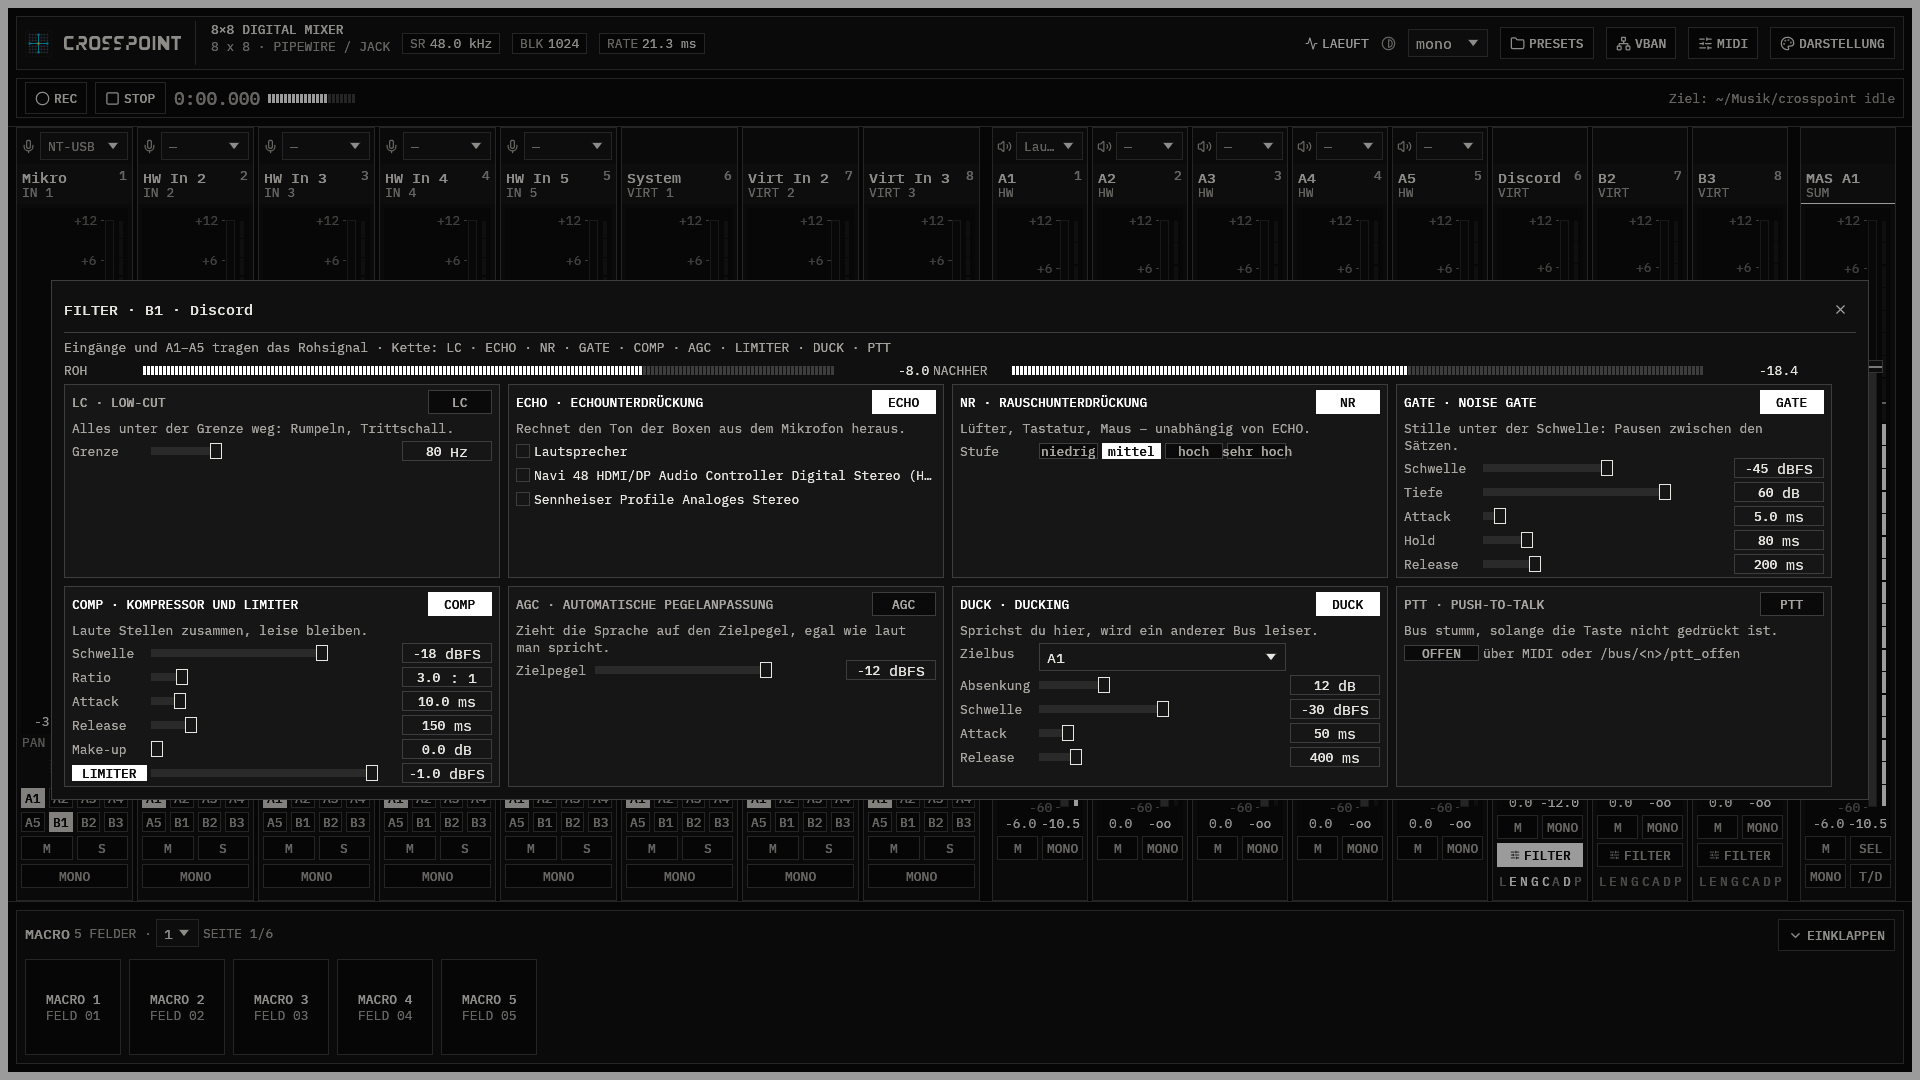
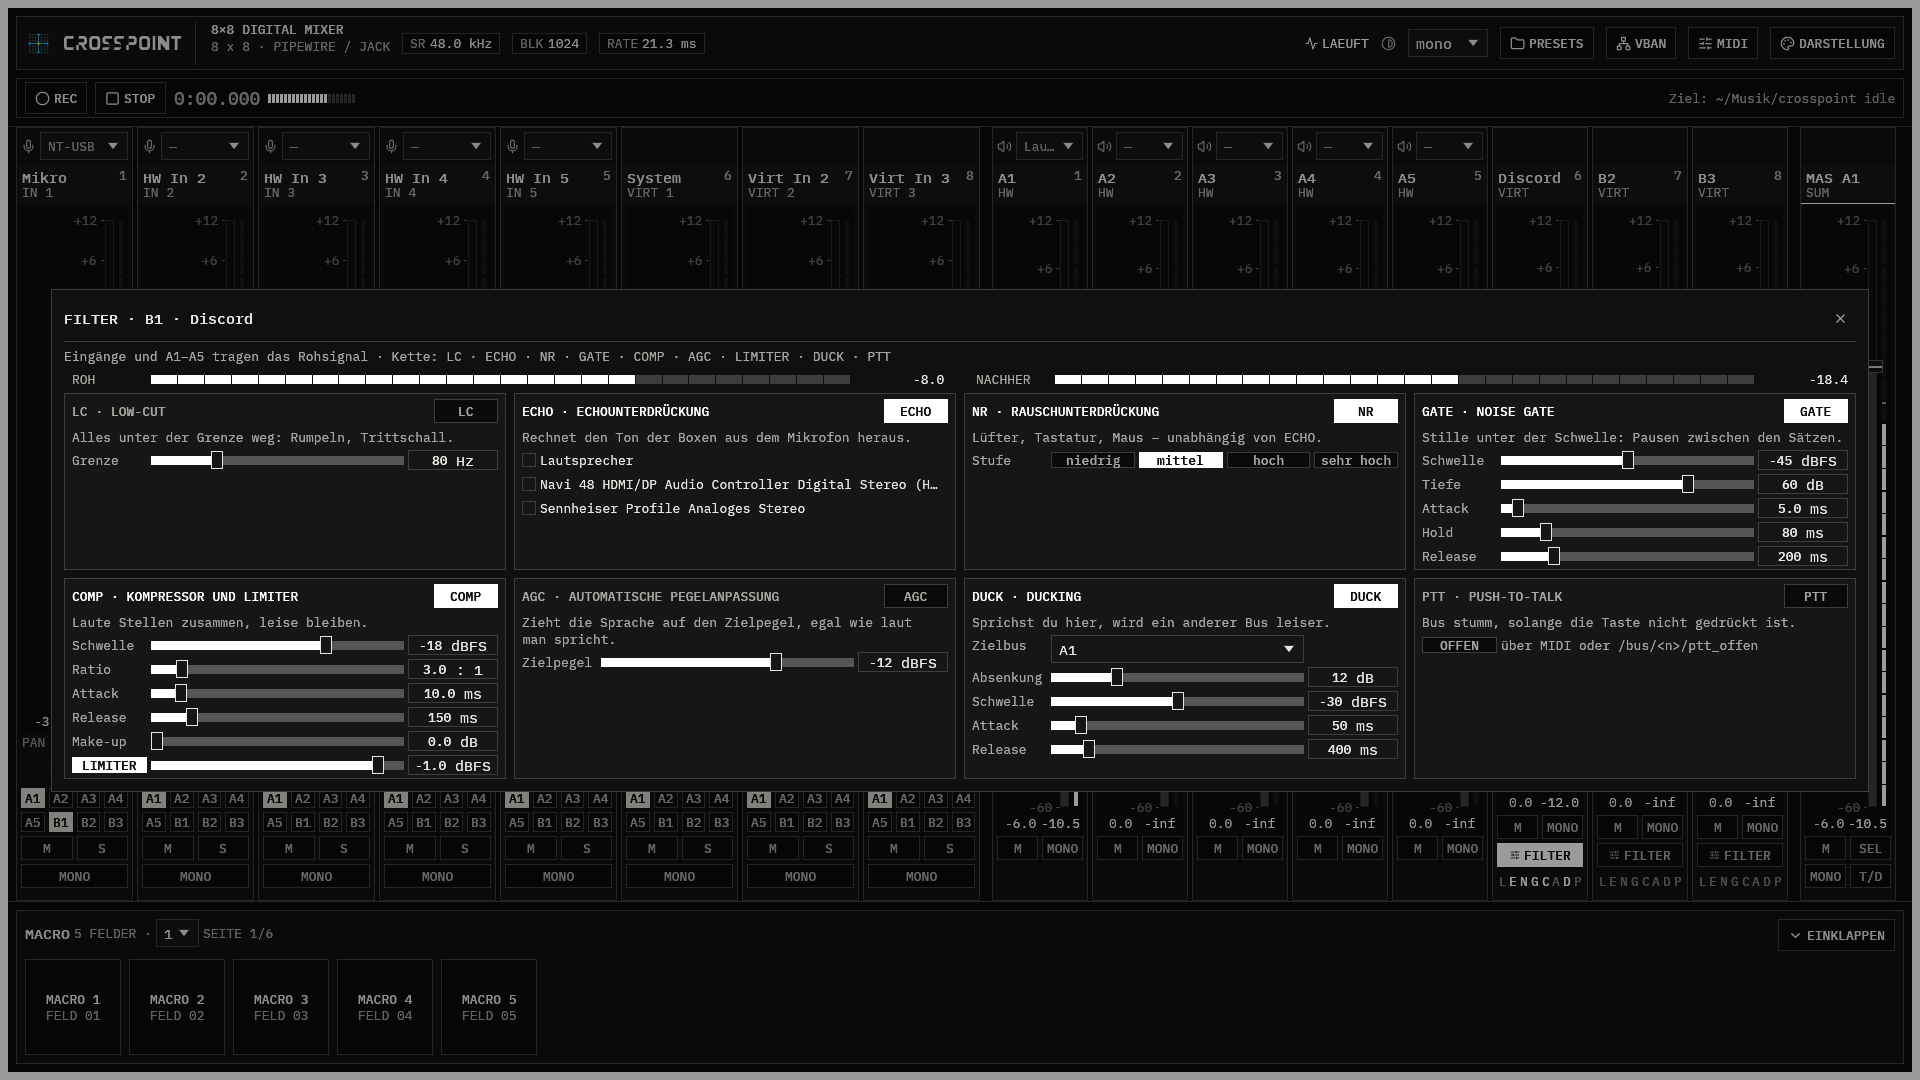
docs: Bilder in der Alltagsgröße, ADRs nachgezogen
Die Bilder in docs/bilder entstanden in Wunschgrößen (1920, 2560), die es im
Betrieb so nicht gibt; das Pult steht auf einem 2560 × 1440-Bildschirm bei
1590 × 640. Der Test `bilder_in_allen_themes` erzeugt deshalb zusätzlich
`pult-<theme>-1590.png` und `filter-modal-<theme>-1590.png` und prüft die
Maße bei 1590 × 640, in der Mindestgröße, bei 1920 und bei 2560.

README und die ADRs 0006, 0007 und 0009 beschreiben die neuen Regeln: vier
Spalten (acht Karten, zwei volle Zeilen), Kürzen der ECHO-Liste statt Scrollen,
sichtbare Reglerschiene und eine Dialogbreite aus dem Inhalt.

diff --git a/docs/adr/0009-ein-dialograhmen-fuer-alle.md b/docs/adr/0009-ein-dialograhmen-fuer-alle.md
@@ -32,17 +32,26 @@ Rahmen:
 
 ### 2. Raster statt fester Spalten (FILTER-Modal)
 
-* Die Spaltenzahl folgt aus der Innenbreite: drei im kleinsten Fenster, vier
-  bei breiterem. Alle Spalten sind gleich breit und füllen die Innenbreite
-  genau; die Kartengröße wird gerechnet, nicht geschätzt.
+* Die Spaltenzahl folgt aus der Innenbreite: vier, solange die Karten nicht zu
+  schmal werden – acht Karten sind dann zwei volle Zeilen, keine Zelle bleibt
+  leer. Alle Spalten sind gleich breit und füllen die Innenbreite genau; die
+  Kartengröße wird gerechnet, nicht geschätzt.
 * Die Höhe einer Zeile ist die höchste Karte der Zeile. Dafür misst
   `karte_hoehe` die Beschreibung im Umbruch der Kartenbreite und zählt die
   Reglerzeilen – dieselben Maße, mit denen die Karte gezeichnet wird. Kein
   zweiter Zeichenlauf, keine doppelten Widget-IDs.
-* Reicht die Fensterhöhe nicht (viele Geräte in der ECHO-Karte), kommt eine
-  Spalte dazu – lieber schmaler als abgeschnitten (ADR 0007: kein Scrollen).
+* Reicht die Fensterhöhe nicht (viele Geräte in der ECHO-Karte), zeigt die
+  ECHO-Karte weniger Geräte (der Rest steht im Hinweis und im Tooltip) – lieber
+  eine Gerätezeile weniger als eine Karte, die unten aus dem Fenster läuft
+  (ADR 0007: kein Scrollen). Die Beschreibung einer Karte wird als fertiger
+  Textblock in der eingeplanten Höhe gezeichnet: ein `Label` wächst mit seinem
+  Text und schöbe die Zeilen darunter aus der Karte.
 * In der Karte: Beschriftung und Wert in festen Spalten, der Schieber nimmt den
-  Rest. Beschriftungs- und Wertspalte werden gemessen, nicht geschätzt: die
+  Rest – die **ganze** Spalte, mit sichtbarer Schiene (`bausteine::schieber`,
+  Rahmenfarbe auf der Karte) und dem gefüllten Teil im Akzent. Der
+  Standardregler von egui malt seine Schiene in Fläche und Rahmenfarbe des
+  Widgets; auf einer Karte derselben Farbe ist sie unsichtbar, und sichtbar
+  bleibt nur der gefüllte Teil bis zum Griff. Beschriftungs- und Wertspalte werden gemessen, nicht geschätzt: die
   Beschriftungsspalte ist so breit wie die breiteste Beschriftung aller Karten
   (`wort::ALLE`), die Wertspalte so breit wie der längste Wert (`WERT_LANG`).
   Damit sind alle Schieber einer Karte gleich lang, enden an der Wertspalte,
@@ -53,6 +62,11 @@ Rahmen:
   die Karte. Zeile und Zellen setzen dazu `set_min_size`/`set_min_width` – ohne
   das schrumpft `allocate_ui_with_layout` auf den Inhalt, und jede Karte bekäme
   ihre eigene Spalte.
+* Die Breite eines Dialogs kommt aus seinem Inhalt, nicht aus einer geratenen
+  Zahl: DARSTELLUNG misst den längsten Text (das Autostart-Kästchen) und die
+  Knopfreihen in den Schriften, in denen sie gezeichnet werden, und gibt links
+  und rechts einen Rand dazu. Die Bedienung steht in einem Raster auf einer
+  Kante, die Knöpfe teilen ihre Spalte in gleiche Stücke.
 * Der An/Aus-Schalter sitzt oben rechts und ist in jeder Karte gleich groß. An
   ist eine Akzentfläche, Aus ein Grund mit Linie und gedämpfter Schrift – wie
   die übrigen Schalter im Pult. Denselben Stand trägt `WidgetInfo::selected`

diff --git a/docs/adr/0007-pult-ohne-scrollleisten.md b/docs/adr/0007-pult-ohne-scrollleisten.md
@@ -69,12 +69,15 @@ unverändert und gilt wieder, sobald das Fenster hoch genug ist; ein Klick auf
 
 * **FILTER-Modal** – ein Raster in der Reihenfolge der Signalkette (LC, ECHO,
   NR, GATE, COMP, AGC, DUCK, PTT von links nach rechts, dann die nächste
-  Zeile). Die Spaltenzahl folgt aus der Breite des Modals (drei im kleinsten
-  Fenster, vier bei breiterem), alle Spalten sind gleich breit und füllen die
-  Innenbreite; die Karten einer Zeile sind gleich hoch. Reicht die Höhe nicht
-  (viele Geräte in der ECHO-Karte), kommt eine Spalte dazu, statt zu scrollen.
-  Der Pegel vor/nach den Filtern steht als eigene Zeile unter dem Titel. Es
-  passt im kleinsten Fenster und bei 1920 px (geprüft).
+  Zeile). Die Spaltenzahl folgt aus der Breite des Modals: vier, solange die
+  Karten nicht zu schmal werden (im kleinsten Fenster und bei 1590 × 640 sind
+  es vier). Alle Spalten sind gleich breit und füllen die Innenbreite; die
+  Karten einer Zeile sind gleich hoch. Reicht die Höhe nicht (viele Geräte in
+  der ECHO-Karte), zeigt die Karte weniger Geräte – der Rest bleibt im Hinweis
+  und im Tooltip –, statt zu scrollen und statt über das Fenster zu laufen.
+  Der Pegel vor/nach den Filtern steht als eigene Zeile unter dem Titel, in
+  zwei gleich breiten Hälften mit denselben Spalten wie die Karten. Es passt
+  im Alltagsfenster (1590 × 640) und im kleinsten Fenster (geprüft).
 * **Presets** – zehn Zeilen je Seite mit „<< ZURÜCK“ / „WEITER >>“.
 * **MIDI** – zusätzlich zum Seitenblatt ein Blatt von zehn Zeilen; die letzte
   Seite hat 56 Zeilen (Control Change 0..55) und kommt in sechs Blättern.
@@ -103,5 +106,9 @@ in `fenster.json` werden ignoriert).
   Fenster nicht mehr in die Breite; das ist der Preis für „alles sichtbar“.
 - Wer die Skala kleiner lesen will, kann das Fenster nicht weiter verkleinern –
   die Grenze steht in `logik::mindestfenster` und wird von Tests gehalten.
-- Ein Bildschirmfoto mehr je Theme (`pult-*-min.png`, `filter-modal-*-min.png`);
-  der Test `oberflaeche::bilder_in_allen_themes` erzeugt sie.
+- Vier Bildschirmfotos mehr je Theme (`pult-*-1590.png`, `pult-*-min.png`,
+  `filter-modal-*-1590.png`, `filter-modal-*-min.png`); der Test
+  `oberflaeche::bilder_in_allen_themes` erzeugt sie. Die Bilder werden in der
+  Lage erzeugt, in der das Pult steht (1590 × 640 auf einem 2560 × 1440-
+  Bildschirm) und in der Mindestgröße – Bilder in einer Wunschgröße, die es im
+  Betrieb nicht gibt, zeigen Fehler nicht.

diff --git a/docs/adr/0006-filterkette-und-modal.md b/docs/adr/0006-filterkette-und-modal.md
@@ -121,10 +121,11 @@ Deshalb:
   **NACHHER** (Bus-Pegel) als eigene Zeile über die volle Innenbreite, je eine
   Hälfte mit Beschriftung, Balken und Wert.
 * Darunter ein **Raster**: die acht Karten in der Reihenfolge der Kette, links
-  nach rechts. Die Spaltenzahl folgt aus der Breite (drei im kleinsten
-  Fenster, vier bei breiterem; reicht die Höhe nicht, kommt eine Spalte dazu).
-  Alle Spalten sind gleich breit und füllen die Innenbreite, die Karten einer
-  Zeile sind gleich hoch (die höchste der Zeile). In jeder Karte: Kopf mit
+  nach rechts. Die Spaltenzahl folgt aus der Breite: vier, solange die Karten
+  nicht zu schmal werden (im kleinsten Fenster und im Alltagsfenster 1590 × 640
+  sind es vier – acht Karten, zwei volle Zeilen, keine leere Zelle). Alle
+  Spalten sind gleich breit und füllen die Innenbreite, die Karten einer Zeile
+  sind gleich hoch (die höchste der Zeile). In jeder Karte: Kopf mit
   Kürzel, Titel und An/Aus-Schalter (rechts, überall gleich groß), darunter
   die Kurzbeschreibung und die Regler. Beschriftung und Wert stehen in festen
   Spalten, der Schieber nimmt den Rest – so stehen alle Zeilen bündig.

diff --git a/README.md b/README.md
@@ -128,9 +128,9 @@ stehen beide Ziele für B1–B3.
 An B1–B3 (und am Master, wenn er einen B-Bus bedient) steht dafür ein Knopf
 **FILTER** mit acht Lämpchen: sie zeigen, was an ist. Ein Klick (oder
 Rechtsklick) öffnet das **FILTER-Modal** mit allen Schaltern, Reglern und der
-ECHO-Geräteauswahl; die Karten stehen in einem Raster (drei Spalten im
-kleinsten Fenster, vier bei breiterem) in der Reihenfolge der Kette, unter dem
-Titel der Pegel **vor** und **nach** den Filtern. Alle Dialoge (auch PRESETS,
+ECHO-Geräteauswahl; die Karten stehen in einem Raster aus vier Spalten – acht
+Karten, zwei volle Zeilen, auch im kleinsten Fenster – in der Reihenfolge der
+Kette, unter dem Titel der Pegel **vor** und **nach** den Filtern. Alle Dialoge (auch PRESETS,
 VBAN, MIDI und DARSTELLUNG) teilen sich denselben Rahmen mit dem Schließen-X
 oben rechts ([ADR 0009](docs/adr/0009-ein-dialograhmen-fuer-alle.md)).
 Esc, Klick daneben und das X schließen es. Reihenfolge und Begründung der
